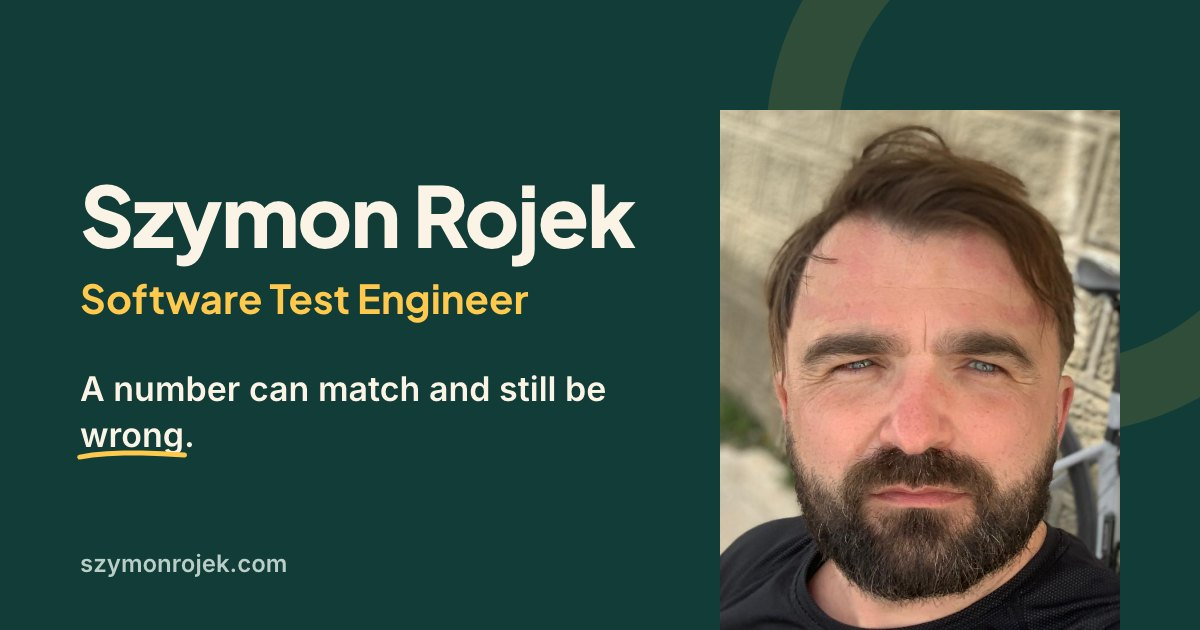
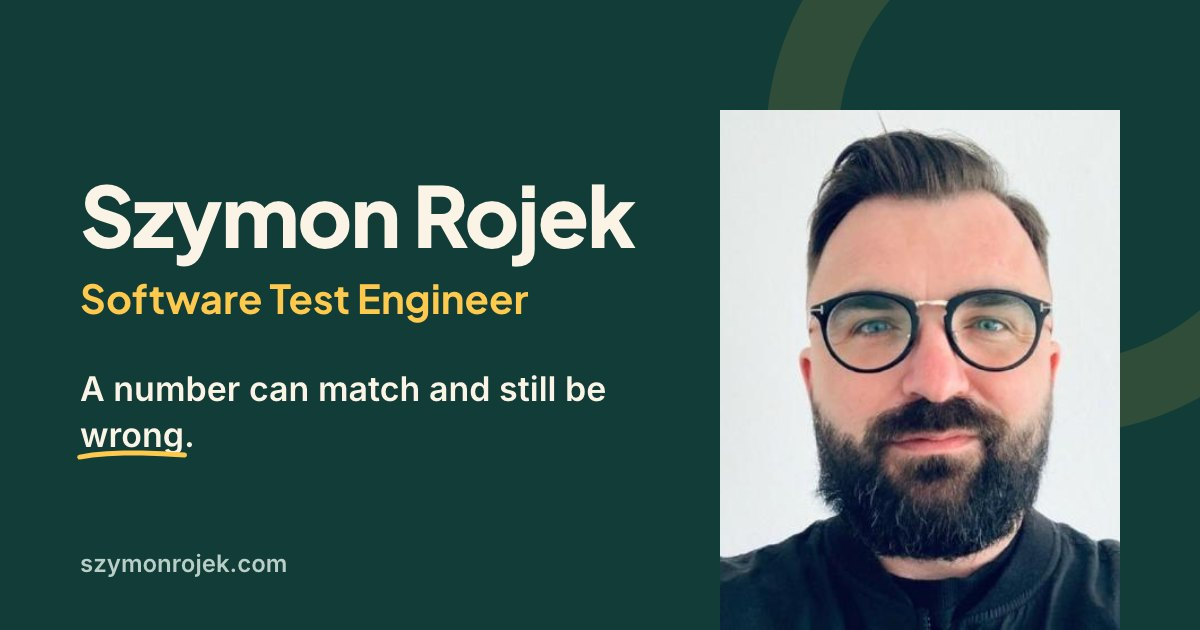
use the new photo, smaller and fully duotone

Changed region(s): [[0.5858, 0.1508, 0.9558, 1.0]]

diff --git a/src/features/Homepage/MainHeader/SplitPortrait/styled.ts b/src/features/Homepage/MainHeader/SplitPortrait/styled.ts
@@ -12,7 +12,9 @@ export const Portrait = styled.div.attrs<{ $split: number }>(({ $split }) => ({
   position: relative;
   align-self: end;
   justify-self: end;
-  width: 340px;
+  /* Smaller than the text block beside it, so the headline leads the hero;
+     the photo is a close crop, so its face reads large at any width. */
+  width: 300px;
   aspect-ratio: 4 / 5;
   overflow: hidden;
   /* The whole photo is the drag area: sideways moves the line, up and down
@@ -40,13 +42,17 @@ export const Portrait = styled.div.attrs<{ $split: number }>(({ $split }) => ({
     outline-offset: 4px;
   }
 
+  @media (max-width: ${({ theme }) => theme.breakpoints.tabletHorizontalMax}px) {
+    width: 260px;
+  }
+
   @media (max-width: ${({ theme }) => theme.breakpoints.tabletVerticalMax}px) {
-    width: 280px;
+    width: 240px;
   }
 
   @media (max-width: ${({ theme }) => theme.breakpoints.mobileMax}px) {
     justify-self: end;
-    width: 240px;
+    width: 220px;
   }
 `;
 
@@ -72,21 +78,6 @@ export const Photo = styled.img<{ $mono?: boolean }>`
       filter: url(#portrait-duotone);
       clip-path: inset(0 calc(100% - var(--split)) 0 0);
     `}
-`;
-
-// The irises once more, on top of the duotone: the photo through the
-// #portrait-irises filter (only the iris pixels, in blue), and masked to the
-// two eyes. On the colour side the line hides the duotone, so they show only
-// where the photo is green.
-const iris = (x: string, y: string) =>
-  `radial-gradient(ellipse 2.2% 1.6% at ${x} ${y}, #000 60%, transparent 100%)`;
-const irises = `${iris("35.5%", "48%")}, ${iris("63.5%", "48.2%")}`;
-
-export const Eyes = styled(Photo)`
-  filter: url(#portrait-irises);
-  clip-path: inset(0 calc(100% - var(--split)) 0 0);
-  mask-image: ${irises};
-  -webkit-mask-image: ${irises};
 `;
 
 // The SVG that holds the duotone filter takes no space.
@@ -149,18 +140,21 @@ export const Grip = styled.span`
   }
 `;
 
-// One quiet word beside the grip until the first drag.
+// One quiet word beside the grip until the first drag, on a small green tag
+// so it reads on a light photo as well as a dark one.
 export const Hint = styled.span`
   position: absolute;
   z-index: 3;
   top: 58%;
-  left: calc(${railLeft} + 24px);
+  left: calc(${railLeft} + 20px);
+  padding: 4px 6px 4px 8px;
   font-size: 11px;
   font-weight: 700;
   letter-spacing: 0.2em;
   text-transform: uppercase;
   color: ${({ theme }) => theme.colors.brand.text};
-  text-shadow: 0 1px 6px rgba(0, 0, 0, 0.6);
+  background: ${({ theme }) => theme.colors.brand.background};
+  border-radius: ${({ theme }) => theme.borderRadiusSmall};
   transform: translateY(-50%);
   pointer-events: none;
 `;

diff --git a/src/features/Homepage/MainHeader/SplitPortrait/index.tsx b/src/features/Homepage/MainHeader/SplitPortrait/index.tsx
@@ -4,7 +4,6 @@ import {
   Portrait,
   Picture,
   Photo,
-  Eyes,
   FilterDefs,
   Rail,
   Grip,
@@ -165,33 +164,10 @@ export const SplitPortrait = ({ src, name, captions }: SplitPortraitProps) => {
             })}
           </feComponentTransfer>
         </filter>
-        {/* Keeps the irises: less red than the skin around them (blue minus
-            red above about -0.1, the skin is -0.15 to -0.37), then tints
-            them blue in their own brightness. */}
-        <filter id="portrait-irises" colorInterpolationFilters="sRGB">
-          <feColorMatrix
-            in="SourceGraphic"
-            type="matrix"
-            values="0 0 0 0 0 0 0 0 0 0 0 0 0 0 0 -12 0 12 0 1.2"
-            result="iris"
-          />
-          <feColorMatrix
-            in="SourceGraphic"
-            type="matrix"
-            values="0.2126 0.7152 0.0722 0 0 0.2126 0.7152 0.0722 0 0 0.2126 0.7152 0.0722 0 0 0 0 0 1 0"
-          />
-          <feComponentTransfer result="blue">
-            <feFuncR type="table" tableValues="0.1 0.62" />
-            <feFuncG type="table" tableValues="0.22 0.8" />
-            <feFuncB type="table" tableValues="0.4 0.96" />
-          </feComponentTransfer>
-          <feComposite in="blue" in2="iris" operator="in" />
-        </filter>
       </FilterDefs>
       <Picture role="img" aria-label={name}>
         <Photo src={src} alt="" draggable={false} />
         <Photo src={src} alt="" draggable={false} $mono />
-        <Eyes src={src} alt="" draggable={false} />
       </Picture>
       <Rail aria-hidden="true">
         <Grip />

diff --git a/src/features/Homepage/MainHeader/SplitPortrait/index.test.tsx b/src/features/Homepage/MainHeader/SplitPortrait/index.test.tsx
@@ -38,14 +38,14 @@ describe("SplitPortrait", () => {
     expect(screen.queryAllByRole("button")).toHaveLength(0);
   });
 
-  it("draws the same photo three times, as decoration", () => {
+  it("draws the same photo twice, as decoration", () => {
     renderPortrait();
 
     const photos = screen
       .getByRole("img", { name: "Szymon Rojek" })
       .querySelectorAll("img");
-    // Colour, the duotone copy and the blue irises on top.
-    expect(photos).toHaveLength(3);
+    // Colour, and the duotone copy on top; the eyes stay duotone too.
+    expect(photos).toHaveLength(2);
     photos.forEach((photo) => {
       expect(photo).toHaveAttribute("src", "photo.jpg");
       expect(photo).toHaveAttribute("alt", "");
